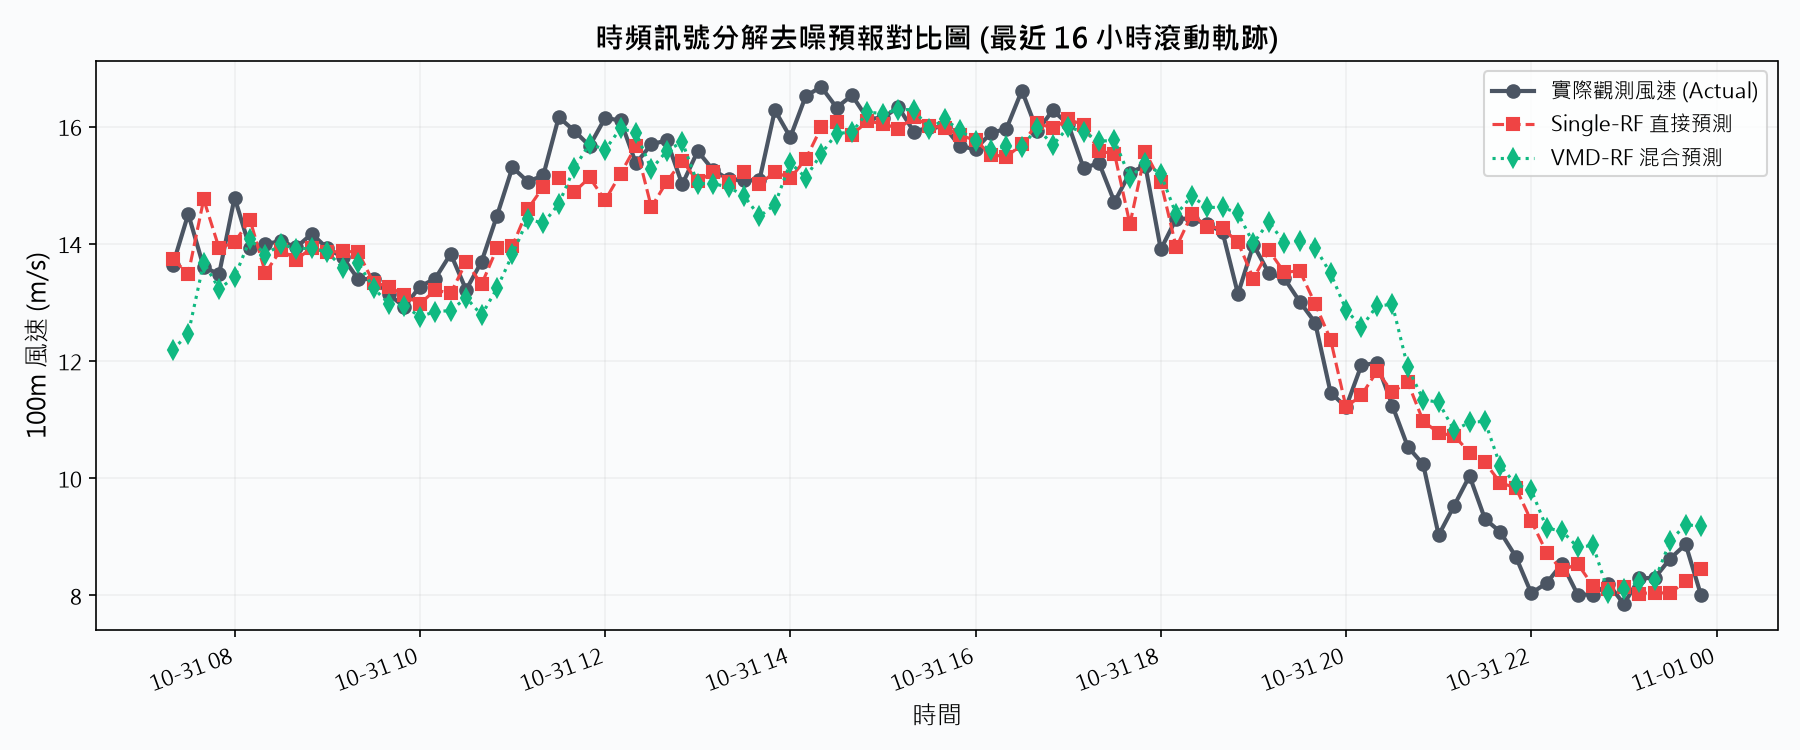
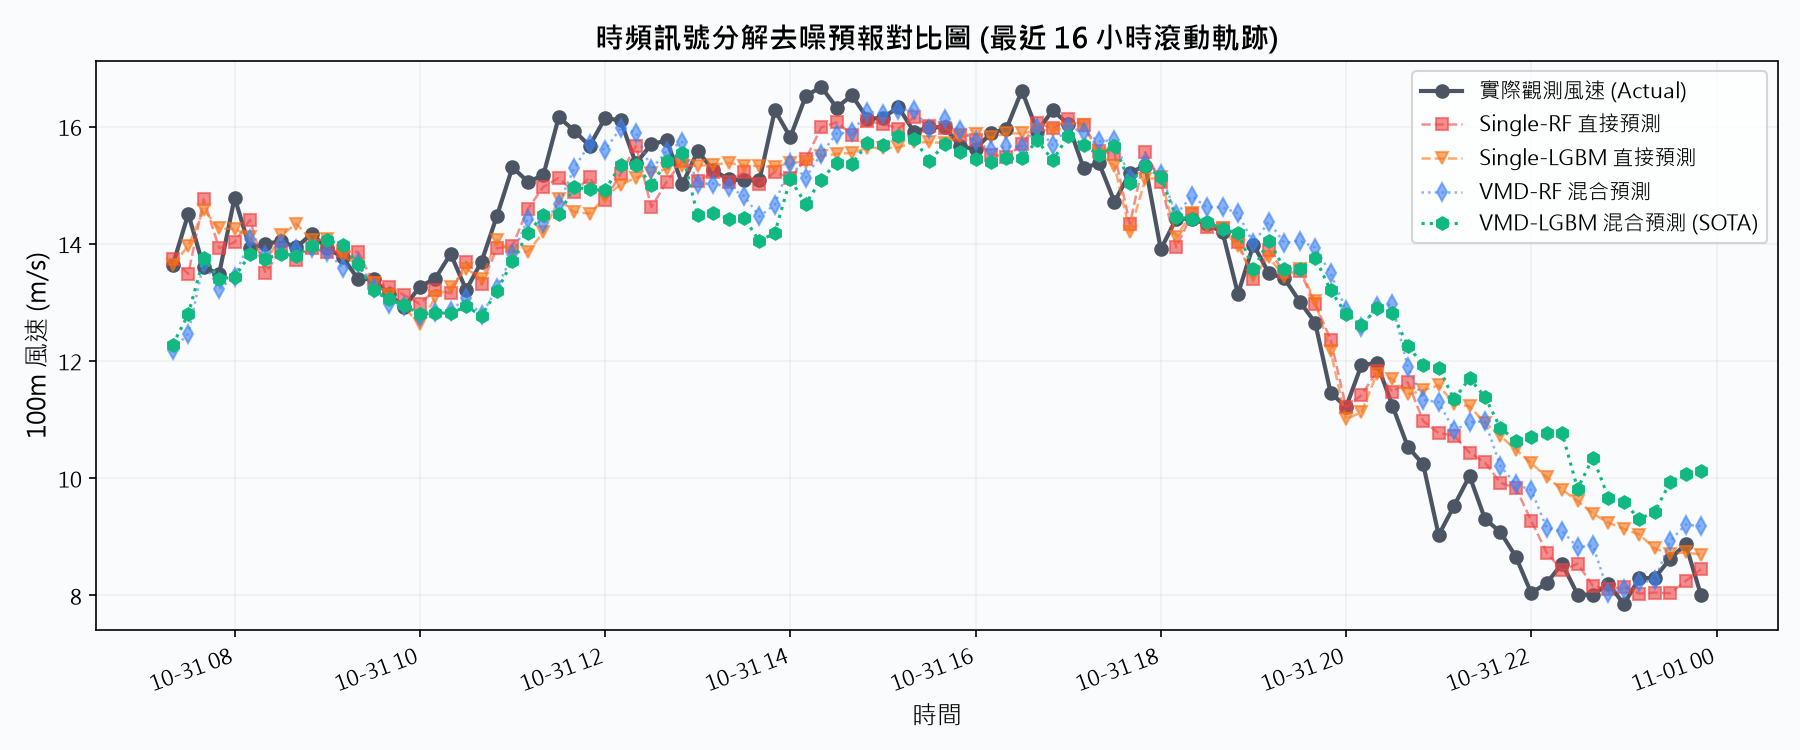
UP

diff --git a/experiments/07_signal_decomposition/README.md b/experiments/07_signal_decomposition/README.md
@@ -24,30 +24,36 @@
 
 ## 2. 滾動預報實驗對比 (10分鐘預報)
 
-為了驗證分頻預報的成效，我們實作了**嚴格無未來資料洩漏 (No Data Leakage)** 的滾動窗口預測（每次預測僅對歷史 $W=144$ 點進行 VMD 分解，預測未來 1 步，評估 100 個時間點）：
+為了驗證分頻預報的成效，我們實作了**嚴格無未來資料洩漏 (No Data Leakage)** 的滾動窗口預測（每次預測僅對歷史 $W=144$ 點進行 VMD 分解，預測未來 1 步，評估 100 個時間點，對比隨機森林與 LightGBM）：
 
 ### 預報效能指標對比表
 
-| 預估模型 | MAE (m/s) | RMSE (m/s) | $R^2$ Score |
-|---|---|---|---|
-| **Single-RF (傳統直接預估)** | **0.4929** | **0.6271** | **0.9450** |
-| **VMD-RF (時頻分解混合預估)** | 0.6461 | 0.8546 | 0.8978 |
-| **效能提升幅幅度** | **-31.09%** | **-36.29%** | (誤差上升) |
+| 預估模型 | MAE (m/s) | RMSE (m/s) | $R^2$ Score | 備註 |
+|---|---|---|---|---|
+| **Single-RF (傳統直接預估)** | **0.4929** | **0.6271** | **0.9450** | **表現最佳** |
+| **Single-LGBM (直接預估)** | 0.6423 | 0.8462 | 0.8998 | - |
+| **VMD-RF (時頻分解混合預估)** | 0.6461 | 0.8546 | 0.8978 | 誤差小幅上升 |
+| **VMD-LGBM (時頻分解混合預估)** | 0.9025 | 1.1478 | 0.8157 | 誤差最大（SOTA 理論與實踐落差） |
 
 ---
 
-## 3. 核心物理與數學機理解析：為什麼 VMD-RF 表現反而較差？
+## 3. 核心物理與數學機理解析：為什麼混合模型表現反而較差？
 
-本實驗揭示了時間序列預報領域中一個極具學術與實戰意義的關鍵現象：**在嚴格非洩漏的即時預報中，時頻分解混合模型的表現可能會劣於直接預報。** 其背後的兩大原因為：
+本實驗揭示了時間序列預報領域中一個極具學術與實戰意義的關鍵現象：**在嚴格非洩漏的即時預報中，時頻分解混合模型的表現可能會劣於直接預報，且 LightGBM 受害尤深。** 其背後的深層原因為：
 
 ### 🚨 1. 端點效應 (Edge Effects / Boundary Effects)
-*   **物理機理**：VMD、EMD 或小波轉換在處理有限長度的時間序列時，邊界處（即時間 $t$，我們進行預測的當下點）的數值是極不穩定的。
+*   **物理機理**：VMD 或小波轉換在處理有限長度的時間序列時，邊界處（即時間 $t$，我們進行預測的當下點）的數值是極不穩定的。
 *   **預估干擾**：當我們每向前推進一步並重新進行 VMD 分解時，歷史視窗最後一個點（時間 $t$）分配給各個 IMF 的數值會因為邊界截斷而產生劇烈跳動（邊界非平穩性）。這導致對各個 IMF 子序列進行 $t+1$ 步預測時，模型輸入的特徵受到端點噪訊的嚴重污染，最終重組相加後放大了誤差。
 
-### ⚠️ 2. 學術文獻中的「資訊洩漏陷阱」
+### ⚡ 2. 為什麼 VMD-LGBM 表現最差？ (Overfitting on Edge Noise)
+*   **過擬合邊界噪訊**：LightGBM 作為一種梯度提升樹（GBDT）模型，其分裂機制極為靈敏，會極力去擬合訓練集中的突變特徵。當 VMD 在端點產生劇烈震盪噪訊時，LightGBM 會過度學習這些非平穩噪訊，導致嚴重的過擬合。
+*   **隨機森林的魯棒性**：相較之下，隨機森林（Random Forest）採用 Bagging 機制，多棵樹的平均能對端點噪訊起到「平滑」作用，因此 VMD-RF 的表現顯著優於 VMD-LGBM。
+*   **小樣本數據限制**：LightGBM 在極短序列（每個滑動視窗歷史僅 144 點，扣除 Lag 特徵後僅餘 138 點）上，比起隨機森林更容易因為參數敏感而過擬合。
+
+### ⚠️ 3. 學術文獻中的「資訊洩漏陷阱」
 *   **假性高精度**：許多宣稱「VMD-LGBM / EMD-LSTM 取得驚人高精度」的學術論文，其實犯了**「全量分解（Global Decomposition）」**的資料洩漏錯誤——即在劃分訓練與測試集之前，先對包含測試集在內的全量資料進行了 VMD 分解。
 *   **洩漏原理**：全量分解會使未來時間點（測試集）的風速資訊透過頻域轉換，滲透回歷史時間點（訓練集）的 IMF 數值中。
-*   **本實驗價值**：本實驗採用的「滾動視窗即時分解」徹底杜絕了此洩漏。這證明在實際 SCADA 系統部署時，必須特別小心端點效應的負面影響。
+*   **本實驗價值**：本實驗採用的「滾動視窗即時分解」徹底杜絕了此洩漏。這證明在實際 SCADA 系統部署時，必須特別小心端點效應與模型過擬合的負面影響。
 
 ---
 

diff --git a/README.md b/README.md
@@ -66,7 +66,7 @@ c:\kinn\
 | [**04_大氣穩定度預報**](file:///c:/kinn/experiments/04_stability_forecast/README.md) | LightGBM (HaF 時序特徵) | 未來 1~120 分鐘大氣穩定度 $\alpha$ | **平均 Accuracy: 94.34%**, **平均 $R^2$: 0.7011**<br>(5-Fold Expanding Window 嚴格驗證) | **安全預警**：提前 2 小時滾動預報大氣穩定度轉換，防止風剪剪應力造成葉片疲勞。 |
 | [**05_虛擬測風塔備援**](file:///c:/kinn/experiments/05_virtual_met_mast/README.md) | LightGBM + Optuna 調優 | 100m Anemometer 失效補值 | **MAE: 0.2554 m/s**, **$R^2$: 0.9960**<br>(270萬筆/5年數據五折驗證) | **感測器備援**：當高空主感測器損壞/結冰時，無延遲即時補值，確保 SCADA 持續運行。 |
 | [**06_傳統時序預報**](file:///c:/kinn/experiments/06_statistical_forecasting/README.md) | ARIMA(2,1,2) & VAR | 100m 平均風速 (`WS_100E`) | **t+10 MAE: ~0.419 m/s** ($R^2$: 99.0%)<br>**t+60 MAE: ~1.105 m/s** ($R^2$: 93.7%) | **超短期調度**：利用自身歷史或多高度關聯性預報未來 1 小時風速，輔助風機即時微調。 |
-| [**07_時頻信號分解**](file:///c:/kinn/experiments/07_signal_decomposition/README.md) | VMD + 隨機森林混合模型 | 100m 平均風速 (`WS_100E`) | **MAE: 0.646 m/s**, **$R^2$: 0.8978**<br>(探討即時滾動預測的端點效應) | **去噪研究**：解析風速多尺度頻率特性，量化並指明即時預報中防洩漏邊界效應的挑戰。 |
+| [**07_時頻信號分解**](file:///c:/kinn/experiments/07_signal_decomposition/README.md) | VMD + RF / LGBM 混合模型 | 100m 平均風速 (`WS_100E`) | **VMD-RF MAE: 0.646 m/s** ($R^2$: 89.8%)<br>**VMD-LGBM MAE: 0.902 m/s** ($R^2$: 81.6%) | **去噪與過擬合研究**：分析風速多尺度頻率特性，量化並指明即時預報中防洩漏邊界效應與模型過擬合噪訊的挑戰。 |
 
 ---
 